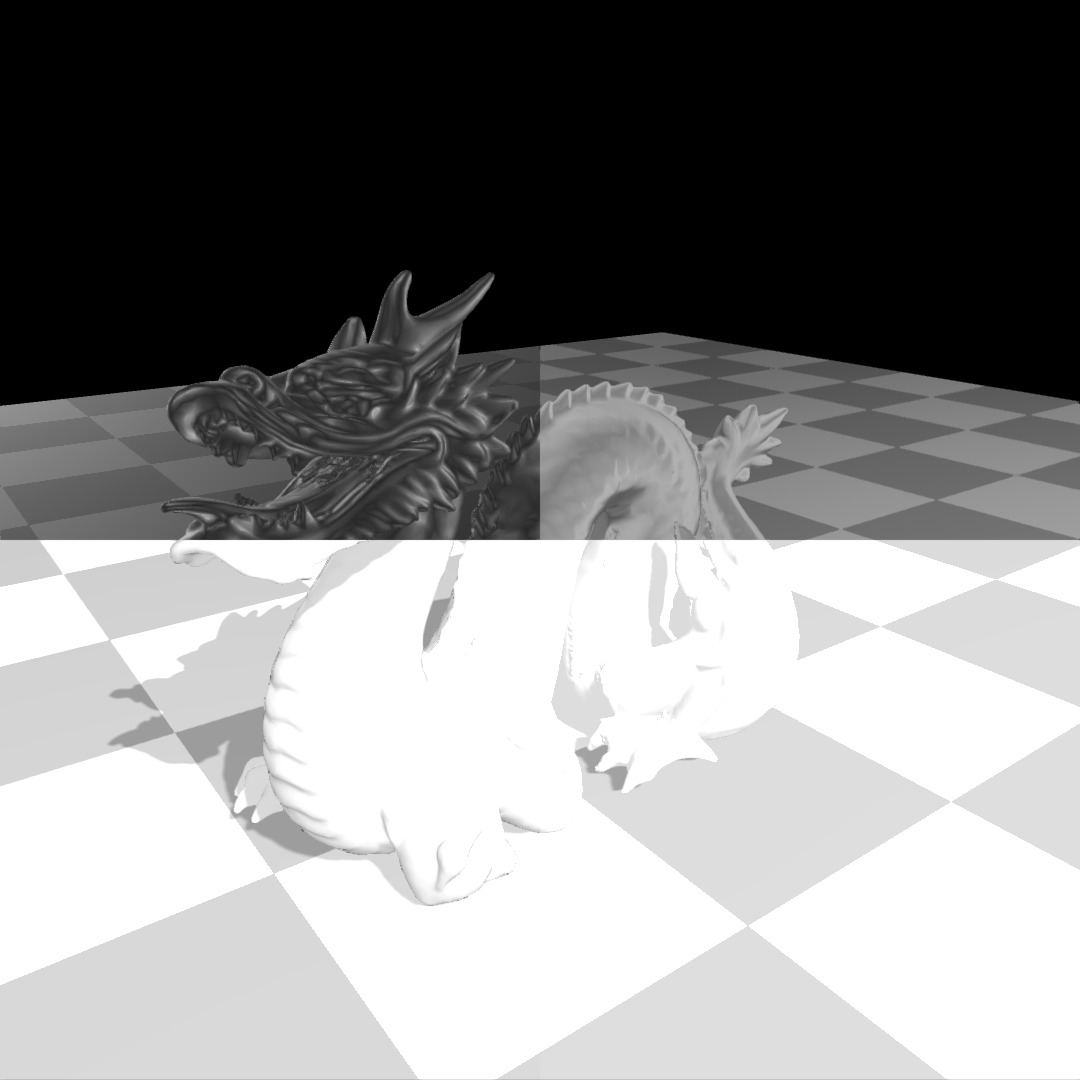
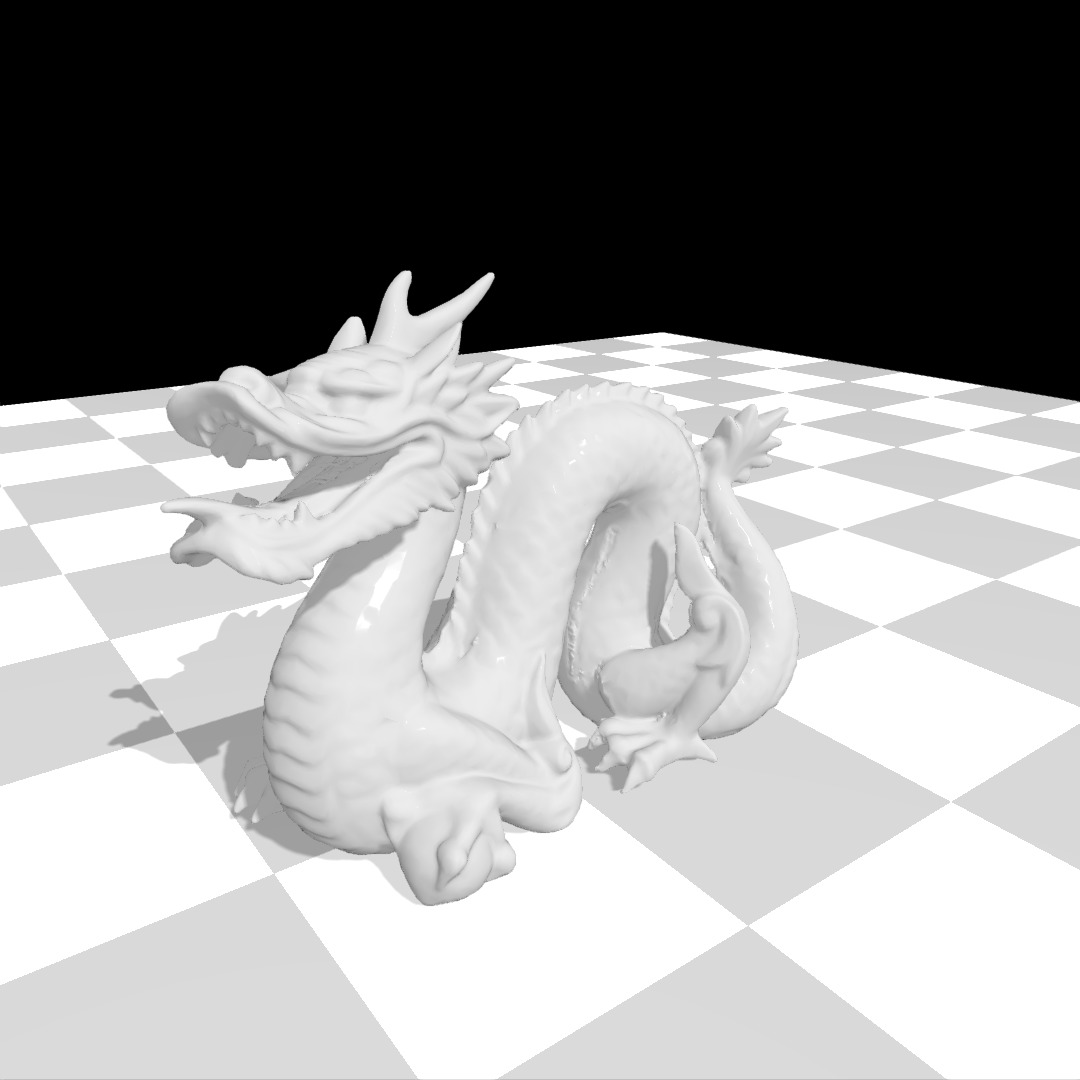
Adding glass and updating examples images

Changed region(s): [[0.0, 0.2444, 1.0, 0.8556]]

diff --git a/README.md b/README.md
@@ -325,15 +325,6 @@ glslViewer assets/dragon.obj lighting_ssao.frag -e camera_position,1.43923,-0.89
 ![](images/lighting_ssao.jpg)
 
 
-#### Deferred PBR (postprocessing)
-
-```bash
-glslViewer assets/dragon.obj lighting_pbrLittle_deferred.frag -e camera_position,1.43923,-0.891203,-1.98093 -l
-```
-
-![](images/lighting_pbrLittle_deferred.jpg)
-
-
 #### Gooch (material)
 
 ```bash
@@ -343,22 +334,40 @@ glslViewer assets/dragon.obj lighting_gooch.frag -e camera_position,1.43923,-0.8
 ![](images/lighting_gooch.jpg)
 
 
-#### PBR little (material)
+#### PBR (material)
 
 ```bash
-glslViewer assets/dragon.obj lighting_pbrLittle.frag -e camera_position,1.43923,-0.891203,-1.98093 -l
+glslViewer assets/dragon.obj lighting_pvr.frag -e camera_position,1.43923,-0.891203,-1.98093 -l
 ```
 
-![](images/lighting_pbrLittle.jpg)
+![](images/lighting_pbr.jpg)
 
 
-#### PBR little with cubemap (material)
+#### PBR with cubemap (material)
 
 ```bash
-glslViewer assets/dragon.obj lighting_pbrLittle.frag -e camera_position,1.43923,-0.891203,-1.98093 -C assets/uffizi_cross.hdr -e dynamic_shadows,on -l 
+glslViewer assets/dragon.obj lighting_pbr.frag -e camera_position,1.43923,-0.891203,-1.98093 -C assets/uffizi_cross.hdr -e dynamic_shadows,on -l 
 ```
 
-![](images/lighting_pbrLittle_cubemap.jpg)
+![](images/lighting_pbr_cubemap.jpg)
+
+
+#### Glass (material)
+
+```bash
+glslViewer assets/dragon.obj lighting_glass.frag -e camera_position,1.43923,-0.891203,-1.98093 -l
+```
+
+![](images/lighting_glass.jpg)
+
+
+#### Glass with cubemap (material)
+
+```bash
+glslViewer assets/dragon.obj lighting_glass.frag -e camera_position,1.43923,-0.891203,-1.98093 -C assets/uffizi_cross.hdr -e dynamic_shadows,on -l 
+```
+
+![](images/lighting_glass_cubemap.jpg)
 
 
 #### ScreenSpace Reflections (postprocessing/raymarching)
